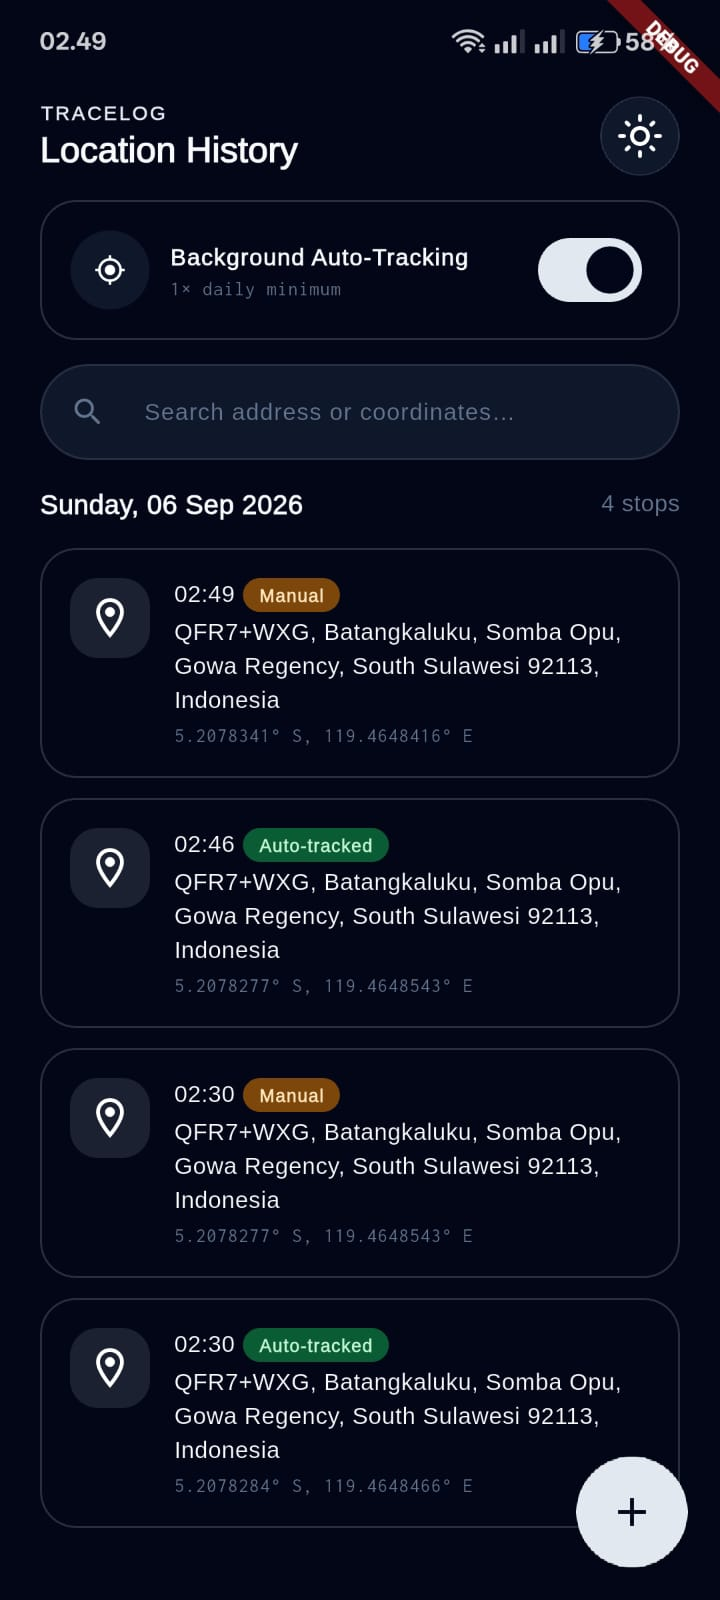
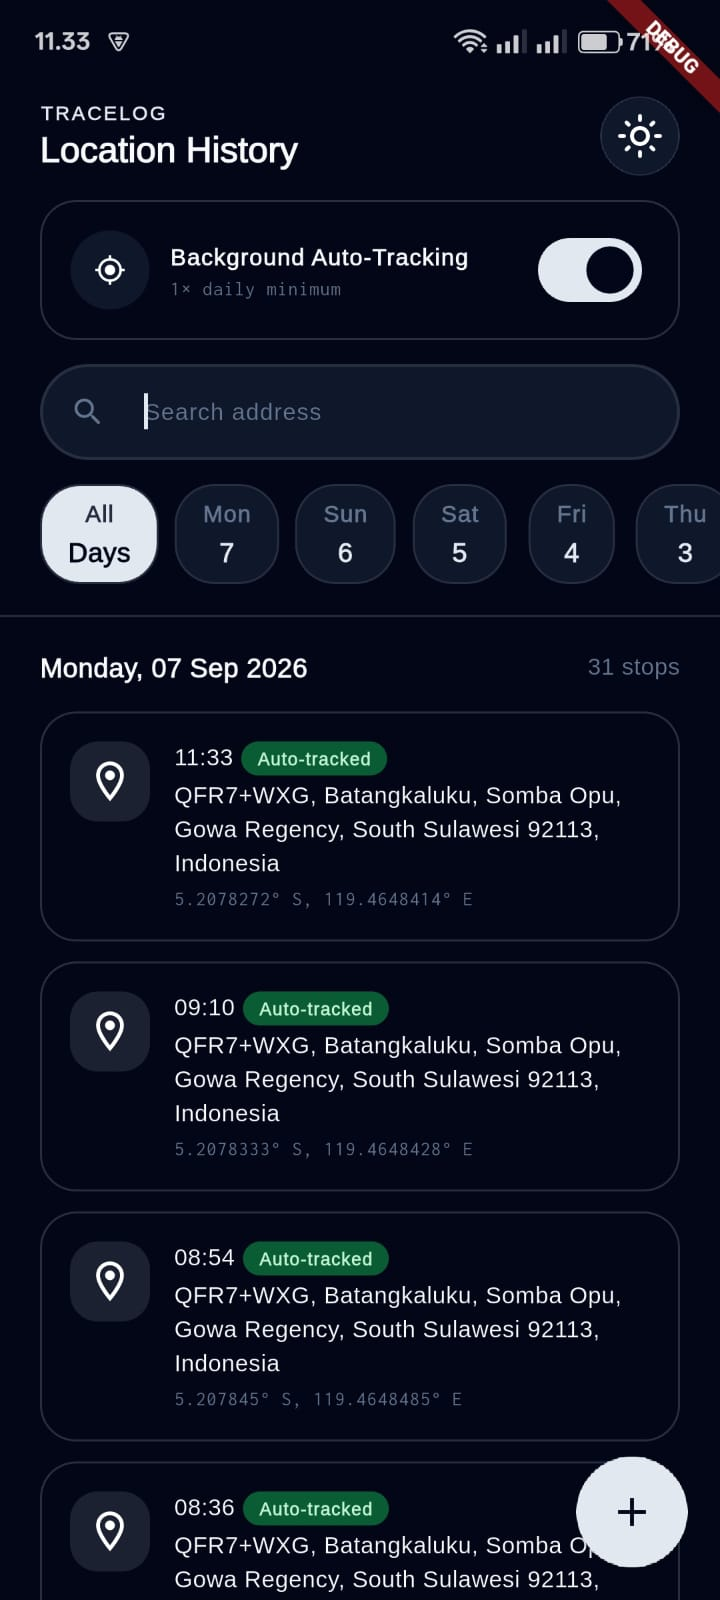
docs: update README

diff --git a/README.md b/README.md
@@ -2,7 +2,7 @@
 
 TraceLog adalah aplikasi mobile location history & auto-tracker yang dibangun menggunakan Flutter. Project ini dibuat sebagai media belajar sekaligus portofolio, dengan fokus pada penerapan praktik pengembangan Flutter modern — mulai dari state management, local persistence, background execution di Android, hingga desain sistem tema terpusat.
 
-> ✅ **Status:** Pencatatan lokasi manual & otomatis (background service), local storage (sqflite), auto-tracking toggle, preview peta, dan dark/light theme sudah berfungsi penuh. Selanjutnya: search & filter, hapus/edit entry, unit test, dan CI/CD.
+> ✅ **Status:** Pencatatan lokasi manual & otomatis (background service), local storage (sqflite), auto-tracking toggle, preview peta, dark/light theme, serta search & filter lokasi sudah berfungsi penuh. Selanjutnya: hapus/edit entry, unit test, dan CI/CD.
 
 ## ✨ Tentang Project
 
@@ -84,7 +84,7 @@ lib/
 - [x] Integrasi Riverpod (`AsyncNotifier`, `AsyncValue.guard()`) untuk seluruh state
 - [x] Auto-refresh UI saat aplikasi kembali ke foreground (`AppLifecycleListener`)
 - [x] Dark/light/system theme, tersimpan otomatis
-- [ ] Search & filter lokasi (search bar dan filter chip per hari)
+- [x] Search lokasi berdasarkan alamat (real-time, case-insensitive) dan filter chip 7 hari terakhir, keduanya bisa dikombinasikan
 - [ ] Hapus & edit entry lokasi
 - [ ] Unit test & widget test
 - [ ] Setup CI dengan GitHub Actions
@@ -94,7 +94,6 @@ lib/
 
 Project ini masih tahap belajar, bukan rilis produksi yang siap dipublikasikan. Beberapa keterbatasan yang sudah teridentifikasi:
 
-- **Search bar & filter chip belum berfungsi** — sudah ada di UI, tapi belum ada logic filter di baliknya.
 - **Belum ada fitur hapus/edit entry** — sekali tercatat, entry lokasi tidak bisa dihapus atau diedit dari UI.
 - **Frequency background task masih nilai testing** — perlu diubah ke interval 24 jam sebelum dipakai di kondisi nyata, saat ini masih diset pendek untuk mempercepat pengujian.
 - **Dependency `workmanager` dari branch `main` git**, bukan rilis stabil di pub.dev — perlu dipantau untuk breaking change, karena belum ada rilis resmi yang mencakup fix yang dibutuhkan saat project ini dibuat.
